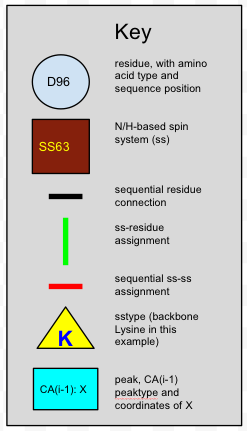
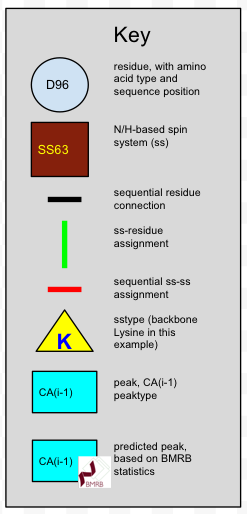
more picture examples

diff --git a/library/by_pic.md b/library/by_pic.md
@@ -111,3 +111,8 @@ C(CO)NH/HNCACB
                   in SS32 and SS89
  
 ![sequential](by_pic/seq_ss-ss.png)
+
+ - peak: using BMRB statistics, residue-sstype
+ - peak-peaktype
+
+![predicted shifts](by_pic/pred_shifts.png)
